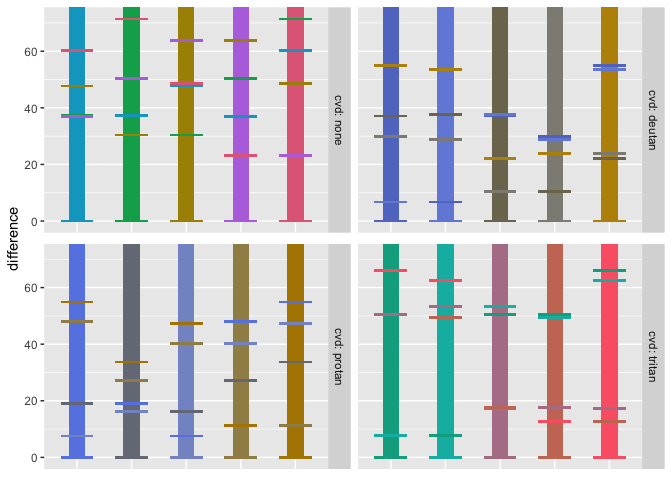
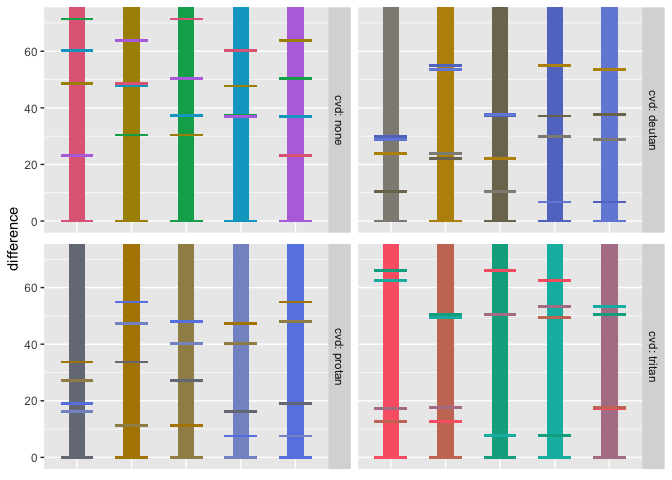
For separation, convert color_a to factor to preserve order on ggplot x-axis

diff --git a/README.md b/README.md
@@ -64,7 +64,7 @@ data_sep <- pev_data_separation(pal)
 print(data_sep)
 #> # A tibble: 100 x 4
 #>    cvd   color_a color_b difference
-#>    <chr> <chr>   <chr>        <dbl>
+#>    <chr> <fct>   <chr>        <dbl>
 #>  1 none  #E16A86 #E16A86        0  
 #>  2 none  #E16A86 #AA9000       48.6
 #>  3 none  #E16A86 #00AA5A       71.4
